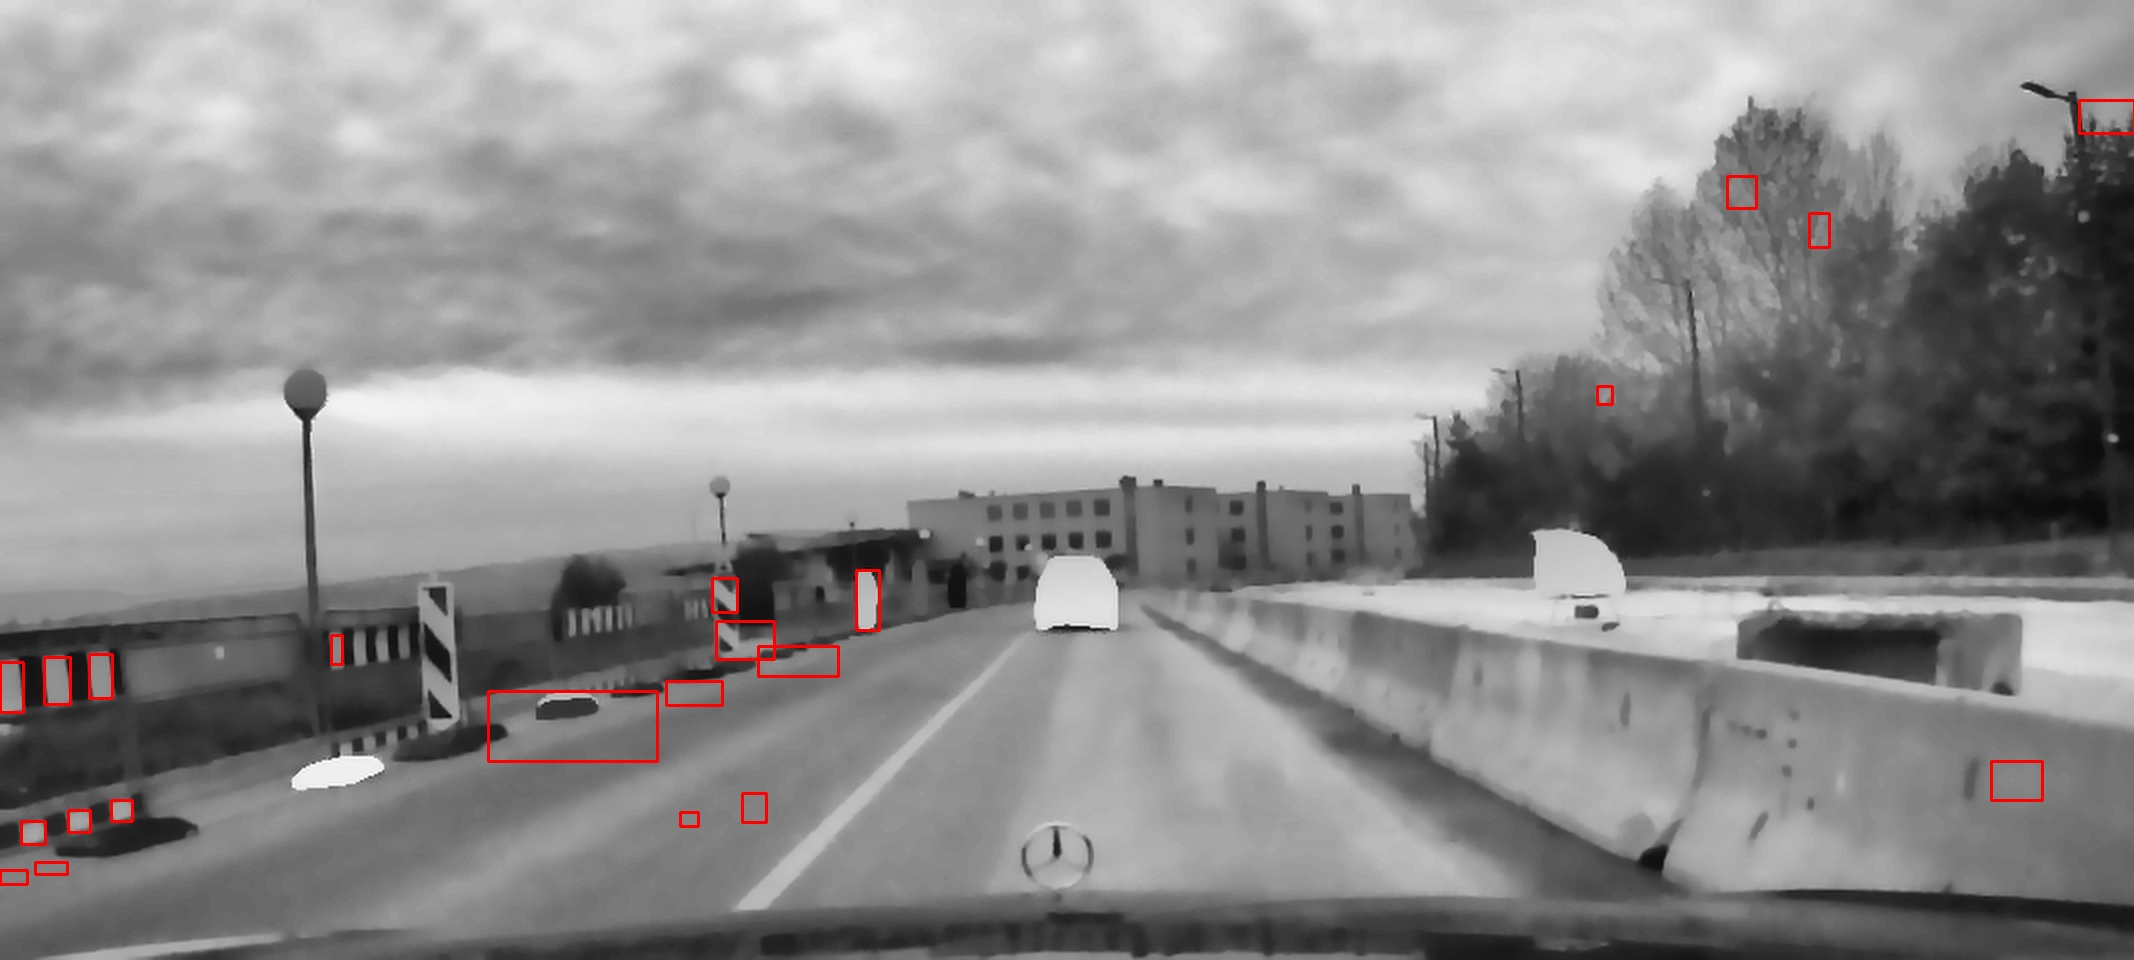
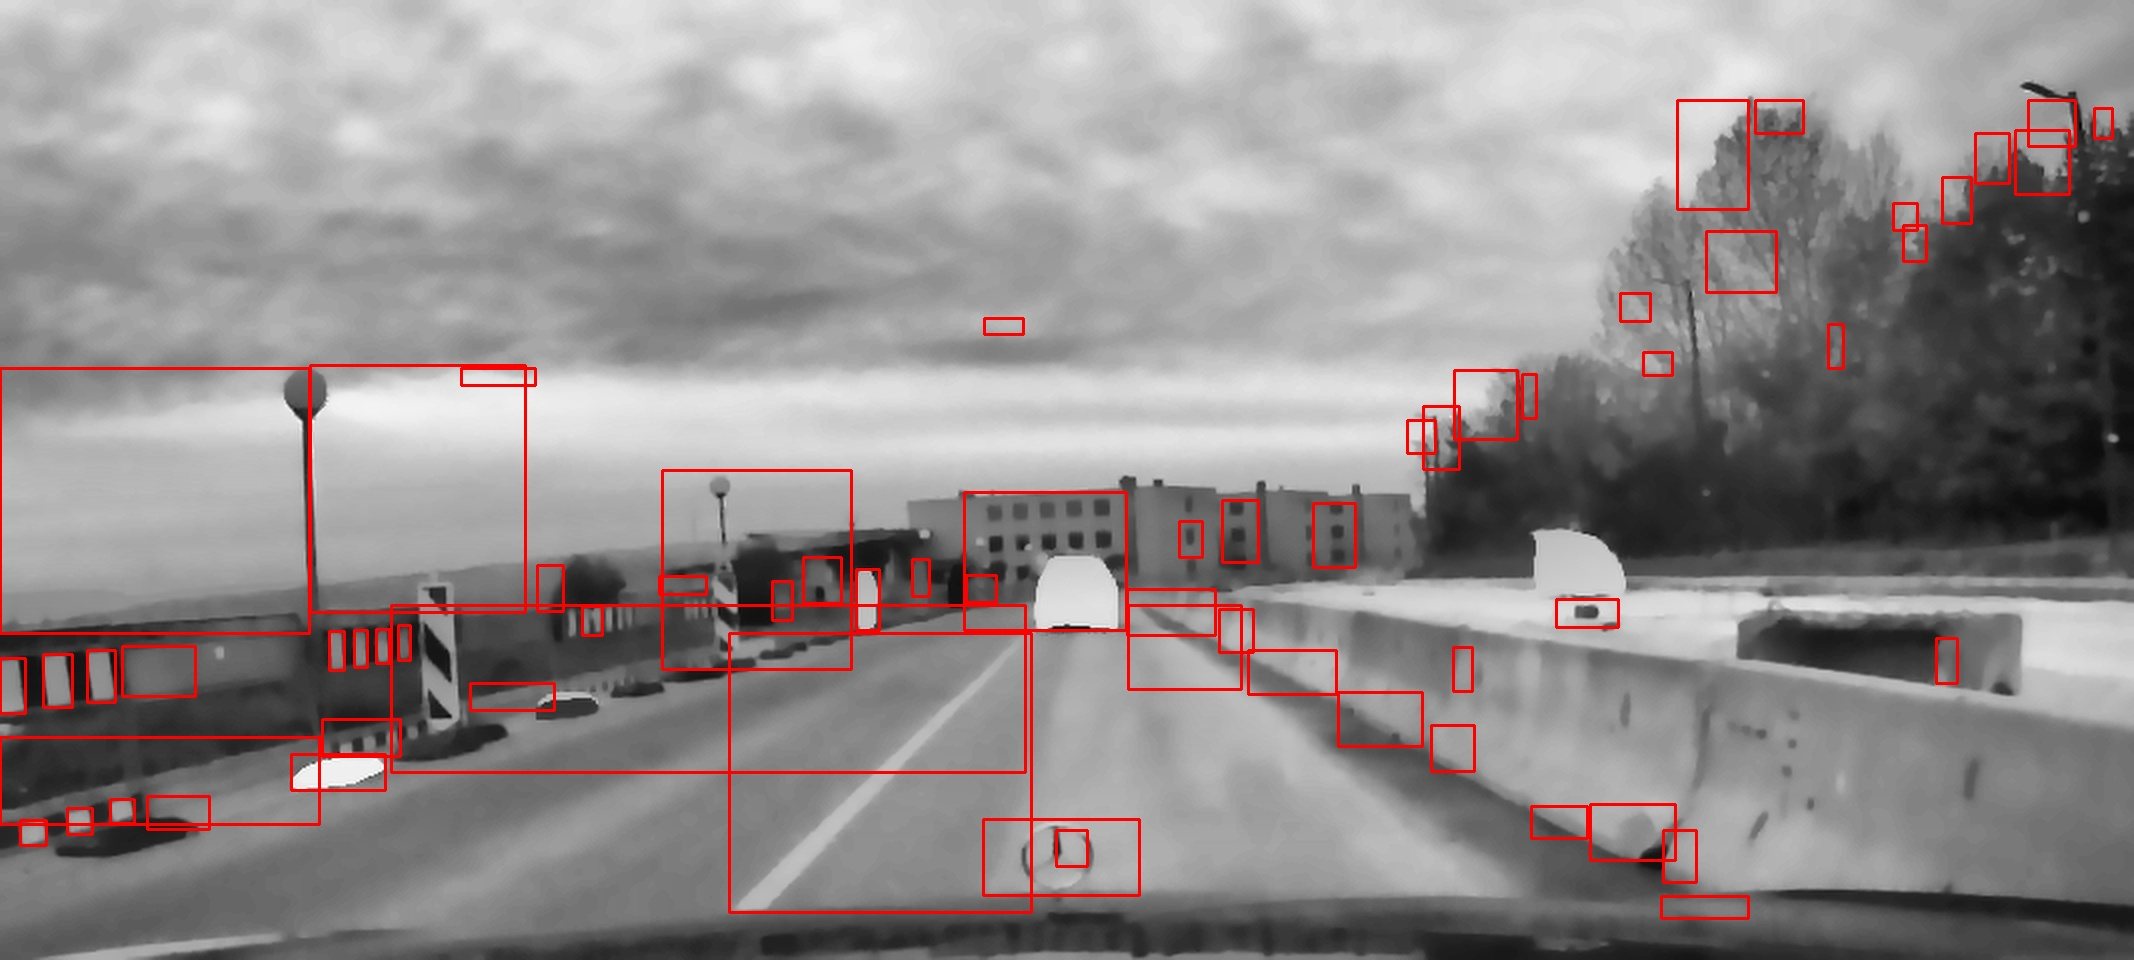
Edited

diff --git a/main_pipeline.py b/main_pipeline.py
@@ -30,15 +30,21 @@ def enhance_radar_image(image):
 
 # === STEP 2: Object Detection with Filtering ===
 def detect_objects(enhanced_img):
-    """Detect valid objects, including cars — filters noise"""
-    _, binary = cv2.threshold(enhanced_img, 0, 255, cv2.THRESH_BINARY + cv2.THRESH_OTSU)
+    """Balanced detection — includes cars, filters clutter"""
+    blur = cv2.GaussianBlur(enhanced_img, (5, 5), 0)
+    binary = cv2.adaptiveThreshold(
+        blur, 255,
+        cv2.ADAPTIVE_THRESH_MEAN_C,
+        cv2.THRESH_BINARY,
+        blockSize=21,
+        C=-5
+    )
 
-    # Optional: suppress sky/tree zone
-    binary[:100, :] = 0  # block top 100px
+    # Clean up tree/sky zone
+    binary[:100, :] = 0
 
     labeled = label(binary)
     bboxes = []
-
     for region in regionprops(labeled):
         minr, minc, maxr, maxc = region.bbox
         area = region.area
@@ -46,12 +52,12 @@ def detect_objects(enhanced_img):
         width = maxc - minc
         aspect_ratio = width / height if height != 0 else 0
 
-        # ✅ Final Rule: Keep cars, filter small junk
-        if 150 <= area <= 7000 and 0.3 <= aspect_ratio <= 4.0:
-            bboxes.append((minr, minc, maxr, maxc))
+        # ✅ Balanced filtering
+        if 300 <= area <= 8000 and 0.3 <= aspect_ratio <= 4.5:
+            if height > 10 and width > 10:  # remove micro-rects
+                bboxes.append((minr, minc, maxr, maxc))
 
     return bboxes, binary
-
 
 # === STEP 3: Full Pipeline Execution ===
 def run_pipeline():
